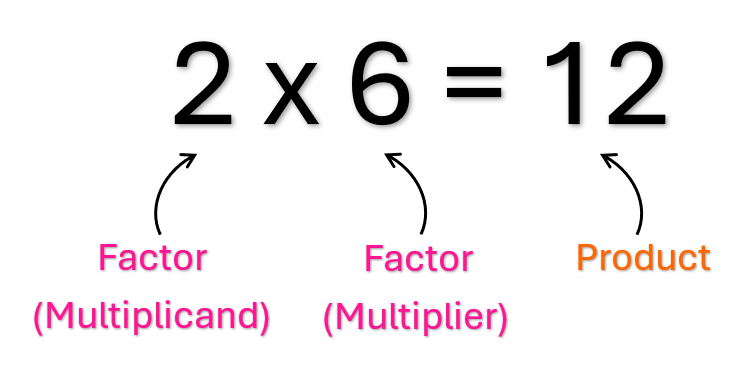
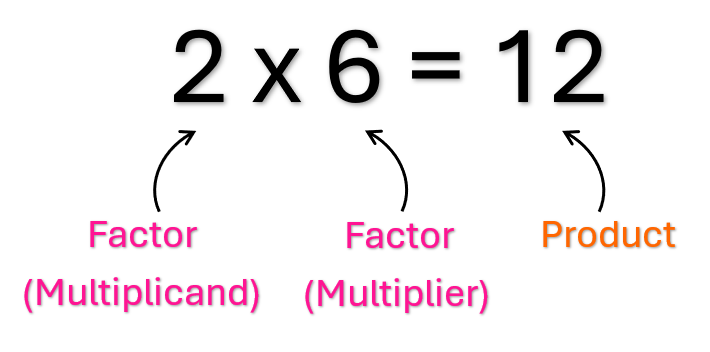
Make content responsive with different screen sizes. Remove navigation for pages that aren't up yet.

diff --git a/multiplication.html b/multiplication.html
@@ -17,15 +17,15 @@
             <a href="home.html">Home</a>
             <a href="addition.html">Addition</a>
             <a href="subtraction.html">Subtraction</a>
-            <a href="multiplication.html">Multiplication</a>
+            <a class="current_page" href="multiplication.html">Multiplication</a>
             <a href="division.html">Division</a>
-            <a href="placevalues.html">Place Values</a>
+            <!--<a href="placevalues.html">Place Values</a>
             <a href="decimals.html">Decimals</a>
-            <a href="fractionsandpercentages.html">Fractions</a>
+            <a href="fractionsandpercentages.html">Fractions</a>-->
         </div>
     </header>
-    <h1>Multiplication</h1>
-    <div>
+    <h1 class="content">Multiplication</h1>
+    <div class="content">
         <h2>What is Multiplication?</h2>
             <p><strong>Multiplication </strong>is when we add the same number a certain number of times.</p>
             <img src="images/multiplication/Multiplication_With_Shapes.PNG" alt="Multiplication problem with shapes";>
@@ -40,7 +40,7 @@
                 <img src="images/multiplication/Multiplication_Problem_With_Labels.PNG" alt="Multiplication problem with labels";>
             <p>The order of the numbers don't matter when multiplying. For example, 2 x 6 is the same as 6 x 2</p>
     </div>
-    <div>
+    <div class="content">
         <h2>Times Tables</h2>
         <div class="tables" style="border-bottom-left-radius: 0px; border-bottom-right-radius: 0px;">
             <table class="one-table">
@@ -227,7 +227,7 @@
             </table>
         </div>
     </div>
-    <div>
+    <div class="content">
         <h2>Multiples Tips and Tricks</h2>
             <h3>Multiples of 0</h3>
                 <p>Every number times 0 equals 0, so the only multiple of 0 is 0 itself.</p>
@@ -316,7 +316,7 @@
             <h3>Multiples of 12</h3>
                 <p>Multiples of 12 are multiples of 3 AND multiples of 4</p>
     </div>
-    <div>
+    <div class="content">
         <h2>Multiplying Using Columns</h2>
             <p>Like addition and subtraction, we can write a multiplication problem in columns.</p>
             <p>To multiply numbers using columns, we do the same thing we did in addition and subtraction except
@@ -324,7 +324,7 @@
             <img src="images/multiplication/Multiplication_In_Columns.PNG" alt="Multiplication in columns";>
             <p>This is a common way to multiply numbers with two or more digits.</p>
     </div>
-    <div>
+    <div class="content">
         <h2>Multiplying with Two-or-More-Digit Numbers</h2>
             <p>To multiply two-or-more-digit numbers, we will use columns just like addition and subtract.
                 Write one number below the other, lining up the place values.</p>

diff --git a/subtraction.html b/subtraction.html
@@ -16,16 +16,16 @@
         <div class="navigation">
             <a href="home.html">Home</a>
             <a href="addition.html">Addition</a>
-            <a href="subtraction.html">Subtraction</a>
+            <a class="current_page" href="subtraction.html">Subtraction</a>
             <a href="multiplication.html">Multiplication</a>
             <a href="division.html">Division</a>
-            <a href="placevalues.html">Place Values</a>
+            <!--<a href="placevalues.html">Place Values</a>
             <a href="decimals.html">Decimals</a>
-            <a href="fractionsandpercentages.html">Fractions</a>
+            <a href="fractionsandpercentages.html">Fractions</a>-->
         </div>
     </header>
-    <h1>Subtraction Page</h1>
-    <div>
+    <h1 class="content">Subtraction</h1>
+    <div class="content">
         <h2>What is Subtraction?</h2>
             <p><strong>Subtraction </strong>is when we have a number and we are taking another number away from it.</p>
             <img src="images/subtraction/Subtraction_With_Shapes.PNG" alt="Subtraction problem with shapes";>
@@ -41,7 +41,7 @@
             <p><b>Note: </b>The order of the numbers matter when subtracting. For Example, 9 - 3 is NOT the same
                 as 3 - 9</p>
     </div>
-    <div>
+    <div class="content">
         <h2>Subtracting Using Columns</h2>
             <p>Like addition, we can write a subtraction problem from top to bottom instead of from left to right,
                 making columns.</p>
@@ -50,7 +50,7 @@
             <img src="images/subtraction/Subtraction_In_Columns.PNG" alt="Subtraction in columns";>
             <p>This is also a common way to subtract numbers with two or more digits.</p>
     </div>
-    <div>
+    <div class="content">
         <h2>Subtracting Two-or-More-Digit Numbers</h2>
             <p>To subtract two-or-more-digit numbers, we will use columns just like with addition. To do this,
                 write one number below the other, with the place values lining up.</p>

diff --git a/addition.html b/addition.html
@@ -15,17 +15,17 @@
     <header>
         <div class="navigation">
             <a href="home.html">Home</a>
-            <a href="addition.html">Addition</a>
+            <a class="current_page" href="addition.html">Addition</a>
             <a href="subtraction.html">Subtraction</a>
             <a href="multiplication.html">Multiplication</a>
             <a href="division.html">Division</a>
-            <a href="placevalues.html">Place Values</a>
+            <!--<a href="placevalues.html">Place Values</a>
             <a href="decimals.html">Decimals</a>
-            <a href="fractionsandpercentages.html">Fractions</a>
+            <a href="fractionsandpercentages.html">Fractions</a>-->
         </div>
     </header>
-    <h1>Addition</h1>
-    <div>
+    <h1 class="content">Addition</h1>
+    <div class="content">
         <h2>What is Addition?</h2>
             <p><strong>Addition </strong>is when we take two or more numbers and joining it together to make a
                 bigger number.</p>
@@ -41,7 +41,7 @@
             <p><b>Note: </b>The order of the numbers don't matter when adding. For example, 7 + 4 is the same as
                 4 + 7</p>
     </div>
-    <div>
+    <div class="content">
         <h2>Adding Using Columns</h2>
             <p>Another way to write an addition problem is to write the numbers from top to bottom instead of from
                 left to right. When we do that, the numbers will make columns. We can use this to add as many
@@ -57,7 +57,7 @@
             <img src="images/addition/Addition_In_Columns.PNG" alt="Addition in columns";>
             <p>This is also a common way to add numbers with two or more digits.</p>
     </div>
-    <div>
+    <div class="content">
         <h2>Adding Two-or-More-Digit Numbers</h2>
             <p>To add numbers with two or more digits, we will add using columns. To do this, write one number below
                 the other, while making sure the place values line up.</p>

diff --git a/template/styles.css b/template/styles.css
@@ -1,6 +1,4 @@
 body {
-    padding-left: 50px;
-    padding-right: 50px;
     font-family: "Aptos", sans-serif;
     background-color: #ccffcc;
 }
@@ -9,22 +7,69 @@ h1 {
     text-align: center;
 }
 
+.navigation {
+    overflow: hidden;
+    background-color: #333;
+    border-radius: 20px;
+}
+
+.navigation a {
+    float: left;
+    color: white;
+    text-align: center;
+    text-decoration: none;
+    padding: 20px;
+}
+
+.navigation a.current_page {
+    background-color: red;
+}
+
+/* Make navigation responsive to smaller screen size */
+@media screen and (max-width: 1000px) {
+  .navigation a {
+    display: block;
+    float: none;
+    width: auto;
+    padding: 12px;
+  }
+}
+
+.content {
+    padding-left: 50px;
+    padding-right: 50px;
+}
+
 img {
     display: block;
     margin: auto;
-    max-width: 100%;
+    max-width: 75%;
     height: auto;
     border-radius: 20px;
+}
+
+/* Make images responsive to smaller screen size */
+@media screen and (max-width: 800px) {
+  img {
+    max-width: 100%;
+  }
 }
 
 .tables {
     display: flex;
     justify-content: center;
-    margin-left: 125px;
-    margin-right: 125px;
+    margin: auto;
     padding: 15px;
     border-radius: 20px;
     background-color: white;
+}
+
+/* Make table responsive to smaller screen size */
+@media screen and (max-width: 800px) {
+  .tables {
+    display: block;
+    margin: auto;
+  }
 }
 
 table {
@@ -35,6 +80,14 @@ table {
     margin: 15px;
     width: 15%;
     overflow: hidden;
+}
+
+/* Make tables responsive to smaller screen size */
+@media screen and (max-width: 800px) {
+  table {
+    width: 100%;
+    margin: 1px;
+  }
 }
 
 tr:nth-child(even) {

diff --git a/division.html b/division.html
@@ -18,14 +18,14 @@
             <a href="addition.html">Addition</a>
             <a href="subtraction.html">Subtraction</a>
             <a href="multiplication.html">Multiplication</a>
-            <a href="division.html">Division</a>
-            <a href="placevalues.html">Place Values</a>
+            <a class="current_page" href="division.html">Division</a>
+            <!--<a href="placevalues.html">Place Values</a>
             <a href="decimals.html">Decimals</a>
-            <a href="fractionsandpercentages.html">Fractions</a>
+            <a href="fractionsandpercentages.html">Fractions</a>-->
         </div>
     </header>
-  <h1>Division</h1>
-    <div>
+  <h1 class="content">Division</h1>
+    <div class="content">
         <h2>What is Division?</h2>
             <p><strong>Division </strong>is when we split a number into groups where each group has the same number.</p>
             <p>There are different ways we can think of division:</p>
@@ -51,14 +51,14 @@
                 <p>A division problem can also be written with a slash (/). Like this: 30 / 3</p>
             <p><b>Note: </b>We cannot divide by 0!</p>
     </div>
-    <div>
+    <div class="content">
         <h2>Division Quick Tips</h2>
             <p>A number divided by 1 equals itself.</p>
             <p>A number divided by itself equals of 1.</p>
             <p>We can't divide by 0! This is important because the answer will something called
                 <strong>undefined</strong>.</p>
     </div>
-    <div>
+    <div class="content">
         <h2>Long Division</h2>
     </div>
 </body>

diff --git a/home.html b/home.html
@@ -14,14 +14,14 @@
     </header>
     <header>
         <div class="navigation">
-            <a href="home.html">Home</a>
+            <a class="current_page" href="home.html">Home</a>
             <a href="addition.html">Addition</a>
             <a href="subtraction.html">Subtraction</a>
             <a href="multiplication.html">Multiplication</a>
             <a href="division.html">Division</a>
-            <a href="placevalues.html">Place Values</a>
+            <!--<a href="placevalues.html">Place Values</a>
             <a href="decimals.html">Decimals</a>
-            <a href="fractionsandpercentages.html">Fractions</a>
+            <a href="fractionsandpercentages.html">Fractions</a>-->
         </div>
     </header>
     <h1>Home Page</h1>
